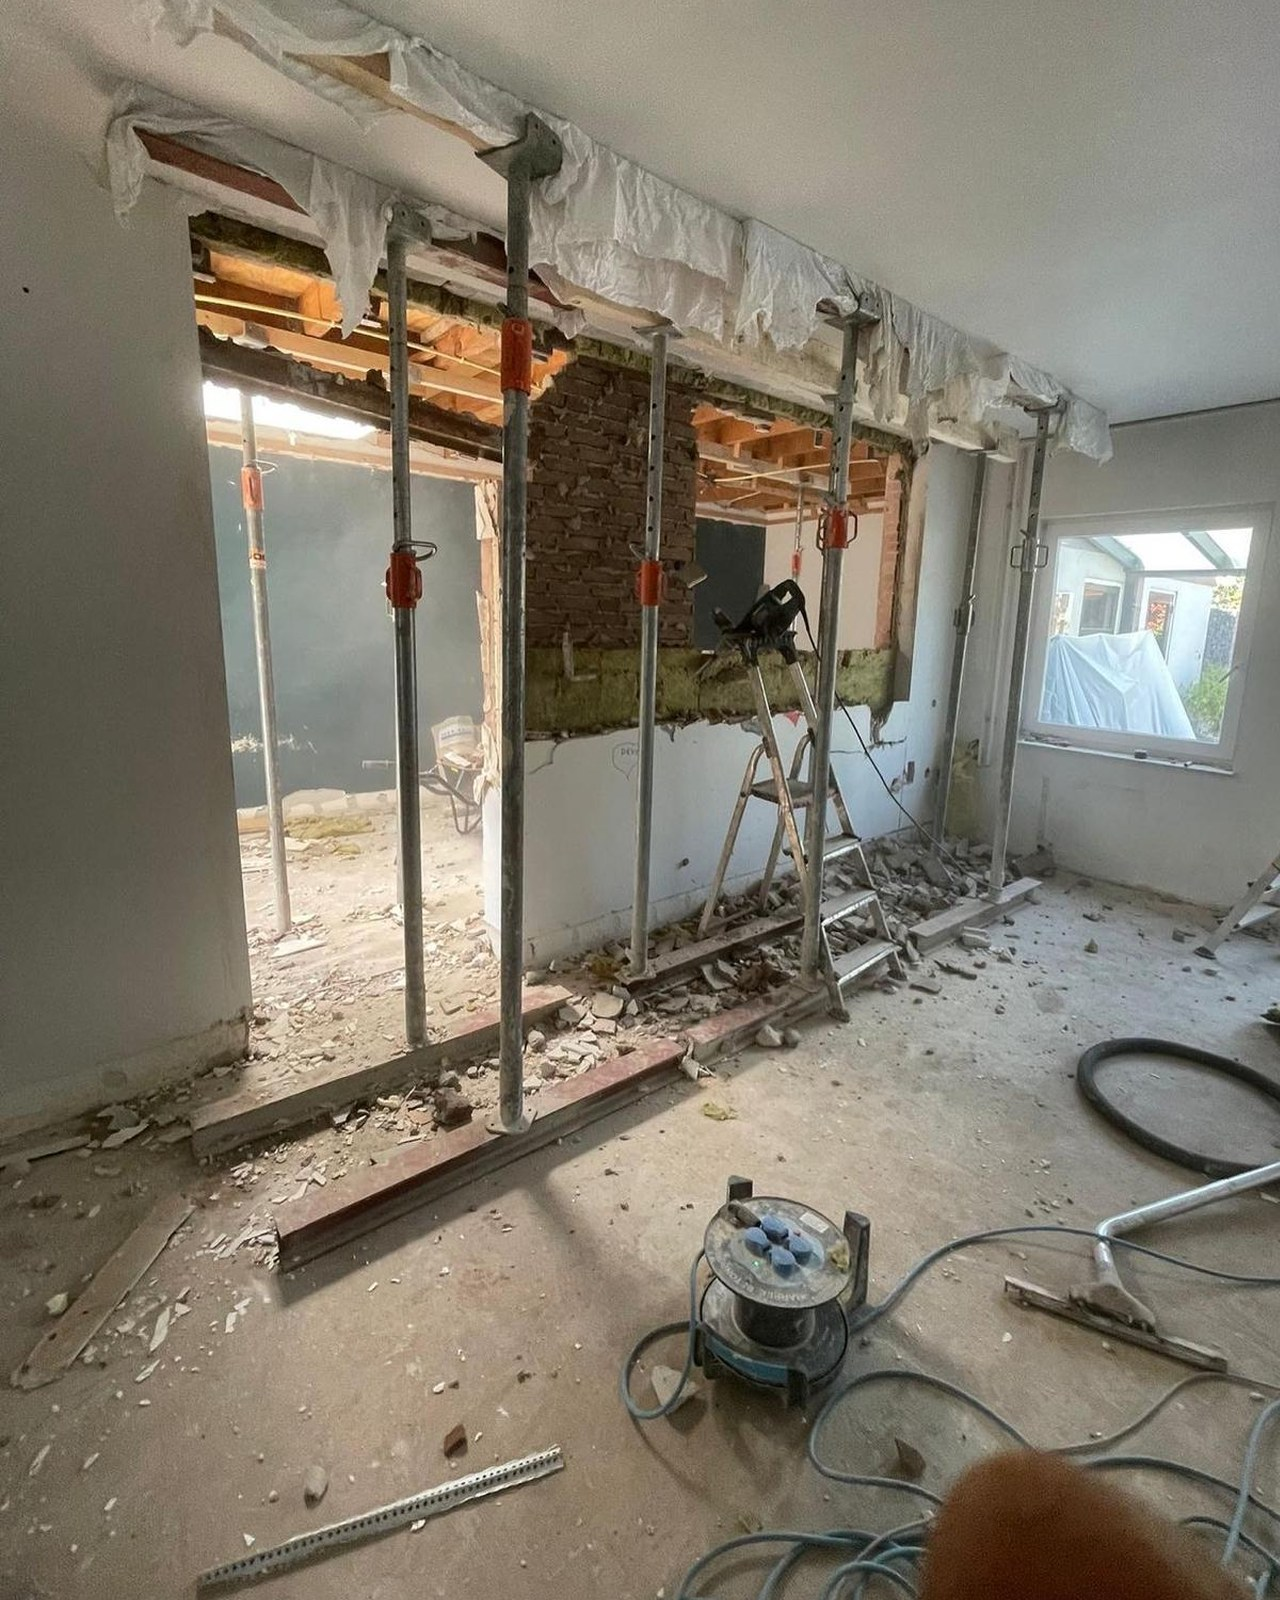
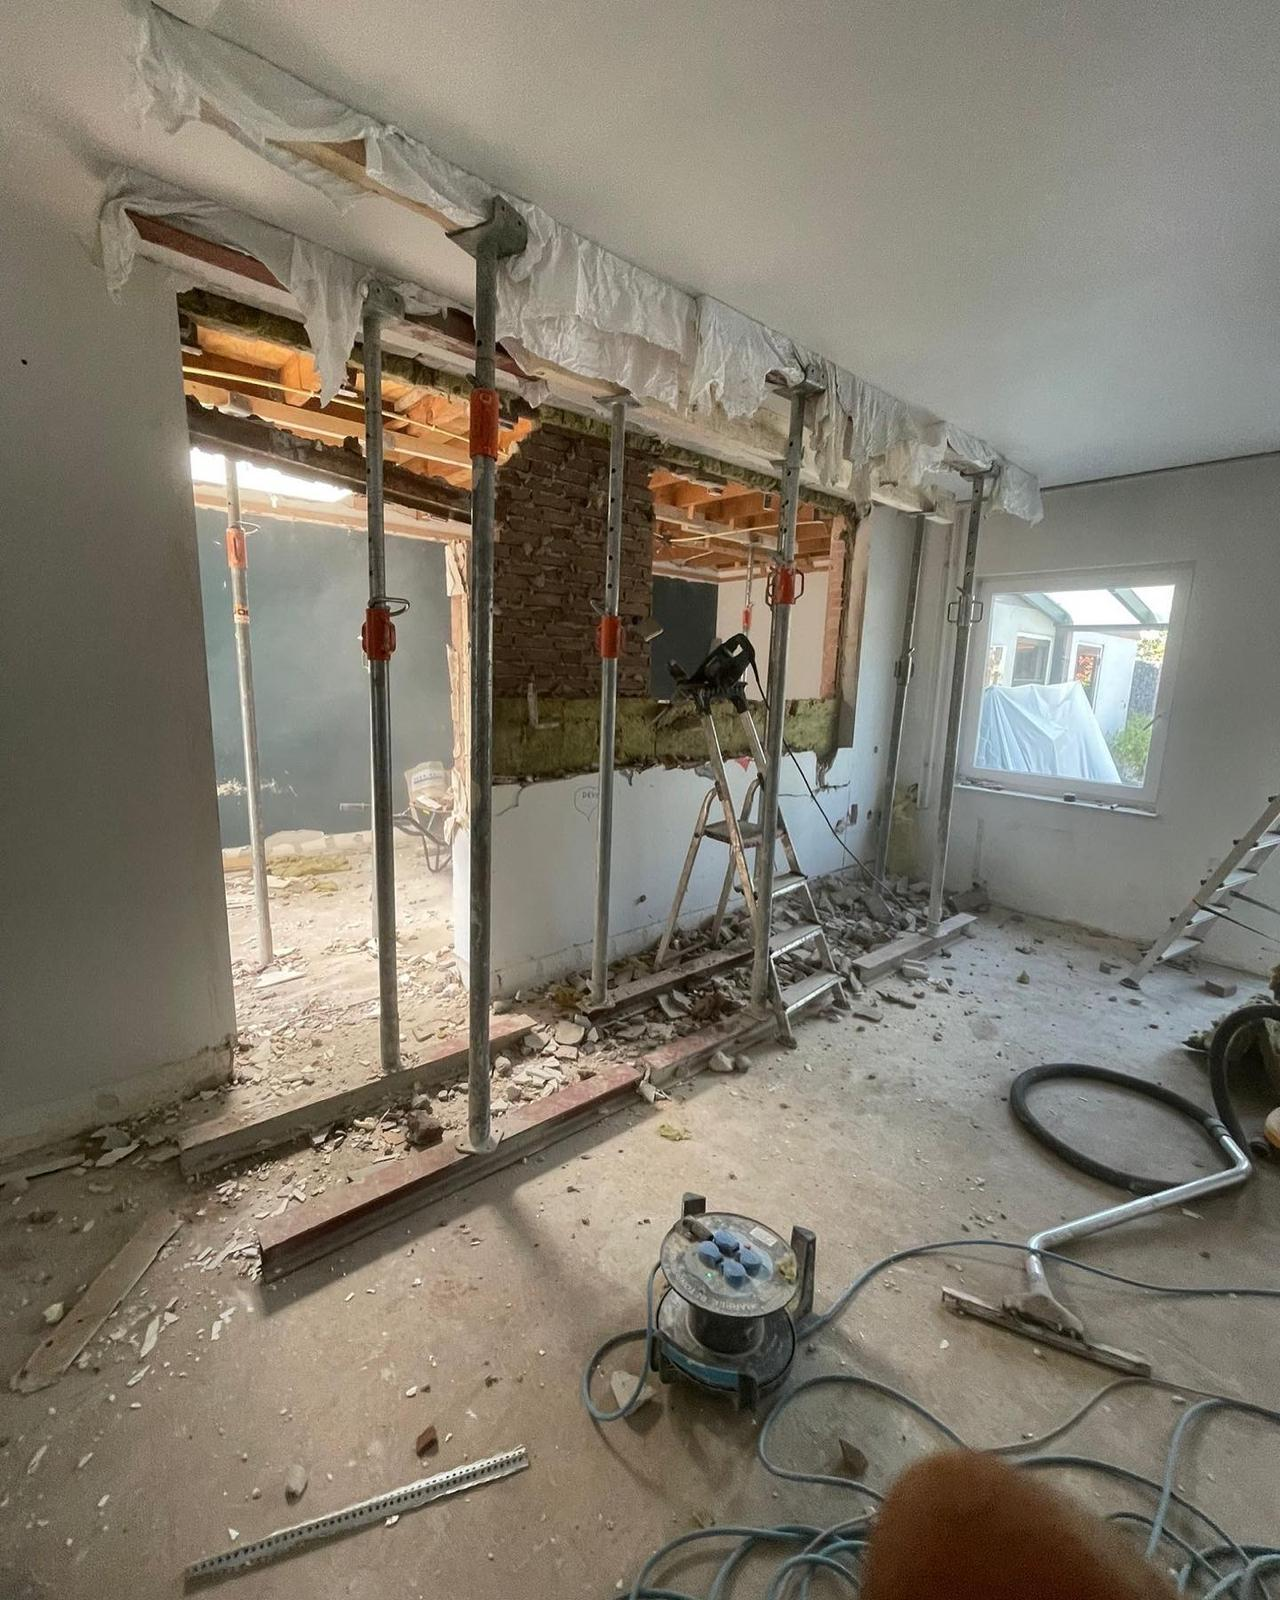
Slider omgebouwd naar crossfade + originele foto's hersteld
- Harde snijlijn vervangen door vloeiende opacity-crossfade
- Slider verplaatst naar onder de foto met Voor/Na labels
- Voor/Na tags in beeld faden mee met de slider
- Originele fotodimensies hersteld (geen crop/scale meer)

diff --git a/index.html b/index.html
@@ -131,17 +131,17 @@
   .ba-tabs{display:flex;gap:10px;margin-bottom:18px}
   .ba-tab{font-size:.82rem;font-weight:600;padding:8px 18px;border-radius:999px;border:1.5px solid var(--line);background:transparent;cursor:pointer;color:var(--muted);transition:background .15s,color .15s,border-color .15s;font-family:"Hanken Grotesk",sans-serif}
   .ba-tab.active{background:var(--navy);color:#fff;border-color:var(--navy)}
-  .ba{position:relative;border-radius:var(--r);overflow:hidden;box-shadow:var(--shadow);aspect-ratio:16/10;user-select:none;touch-action:pan-y}
+  .ba{position:relative;border-radius:var(--r);overflow:hidden;box-shadow:var(--shadow);aspect-ratio:16/10}
   .ba-layer{position:absolute;inset:0;width:100%;height:100%;object-fit:cover;display:block}
-  .ba-voor{clip-path:inset(0 calc(100% - var(--pos,50%)) 0 0)}
-  .ba-tag{position:absolute;top:16px;padding:6px 13px;border-radius:999px;font-size:.72rem;font-weight:700;letter-spacing:.12em;text-transform:uppercase;z-index:1}
+  .ba-na{opacity:0;transition:opacity .04s linear}
+  .ba-tag{position:absolute;top:16px;padding:6px 13px;border-radius:999px;font-size:.72rem;font-weight:700;letter-spacing:.12em;text-transform:uppercase;z-index:1;transition:opacity .04s linear}
   .ba-tag.l{left:16px;background:rgba(28,36,48,.72);color:#fff}
   .ba-tag.r{right:16px;background:rgba(0,78,146,.92);color:#fff}
-  .ba-divider{position:absolute;top:0;bottom:0;left:var(--pos,50%);width:2px;background:#fff;box-shadow:0 0 0 1px rgba(0,0,0,.06);transform:translateX(-1px);z-index:1}
-  .ba-handle{position:absolute;top:50%;left:var(--pos,50%);width:46px;height:46px;border-radius:50%;background:#fff;box-shadow:var(--shadow);transform:translate(-50%,-50%);display:grid;place-items:center;color:var(--accent);font-weight:700;pointer-events:none;z-index:2}
-  .ba-range{position:absolute;inset:0;width:100%;height:100%;margin:0;opacity:0;cursor:ew-resize;z-index:3;-webkit-appearance:none}
-  .ba-range::-webkit-slider-thumb{pointer-events:auto;width:46px;height:100vh;-webkit-appearance:none}
-  .ba-range::-moz-range-thumb{pointer-events:auto;width:46px;height:100vh;border:none}
+  .ba-ctrl{display:flex;align-items:center;gap:14px;margin-top:14px}
+  .ba-ctrl-lbl{font-size:.74rem;font-weight:700;letter-spacing:.14em;text-transform:uppercase;color:var(--muted);white-space:nowrap}
+  .ba-range{flex:1;-webkit-appearance:none;appearance:none;height:3px;border-radius:2px;outline:none;cursor:pointer;background:linear-gradient(to right,var(--navy) var(--pct,0%),var(--line) var(--pct,0%))}
+  .ba-range::-webkit-slider-thumb{-webkit-appearance:none;width:22px;height:22px;border-radius:50%;background:#fff;border:2px solid var(--navy);box-shadow:0 1px 6px rgba(0,0,0,.18);cursor:pointer}
+  .ba-range::-moz-range-thumb{width:22px;height:22px;border-radius:50%;background:#fff;border:2px solid var(--navy);cursor:pointer}
 
   /* services */
   .grid3{display:grid;grid-template-columns:1fr;gap:22px}
@@ -291,13 +291,15 @@
         <button class="ba-tab" data-voor="img/uitbouw_1_voor.jpeg" data-na="img/uitbouw_1_na.jpeg">Uitbouw</button>
       </div>
       <div class="ba reveal" id="ba">
-        <img class="ba-layer" id="ba-na" src="img/draagmuur_doorbraak_1_na.jpeg" alt="Na de draagmuurdoorbraak">
-        <img class="ba-layer ba-voor" id="ba-voor" src="img/draagmuur_doorbraak_1_voor.jpeg" alt="Vóór de draagmuurdoorbraak">
-        <span class="ba-tag l">Vóór</span>
-        <span class="ba-tag r">Ná</span>
-        <div class="ba-divider"></div>
-        <div class="ba-handle">&#8596;</div>
-        <input class="ba-range" id="ba-range" type="range" min="0" max="100" value="50" aria-label="Sleep om voor en na te vergelijken">
+        <img class="ba-layer" id="ba-voor" src="img/draagmuur_doorbraak_1_voor.jpeg" alt="Vóór de draagmuurdoorbraak">
+        <img class="ba-layer ba-na" id="ba-na" src="img/draagmuur_doorbraak_1_na.jpeg" alt="Na de draagmuurdoorbraak">
+        <span class="ba-tag l" id="ba-tag-voor">Vóór</span>
+        <span class="ba-tag r" id="ba-tag-na">Ná</span>
+      </div>
+      <div class="ba-ctrl reveal">
+        <span class="ba-ctrl-lbl">Vóór</span>
+        <input class="ba-range" id="ba-range" type="range" min="0" max="100" value="0" aria-label="Sleep om voor en na te vergelijken">
+        <span class="ba-ctrl-lbl">Ná</span>
       </div>
     </div>
   </section>
@@ -410,7 +412,15 @@
     var range=document.getElementById('ba-range');
     var imgVoor=document.getElementById('ba-voor');
     var imgNa=document.getElementById('ba-na');
-    var set=function(){ba.style.setProperty('--pos',range.value+'%')};
+    var tagVoor=document.getElementById('ba-tag-voor');
+    var tagNa=document.getElementById('ba-tag-na');
+    var set=function(){
+      var v=range.value/100;
+      imgNa.style.opacity=v;
+      tagVoor.style.opacity=1-v;
+      tagNa.style.opacity=v;
+      range.style.setProperty('--pct',range.value+'%');
+    };
     set();
     range.addEventListener('input',set);
     var tabs=document.querySelectorAll('.ba-tab');
@@ -420,7 +430,7 @@
         tab.classList.add('active');
         imgVoor.src=tab.dataset.voor;
         imgNa.src=tab.dataset.na;
-        range.value=50;set();
+        range.value=0;set();
       });
     });
   })();